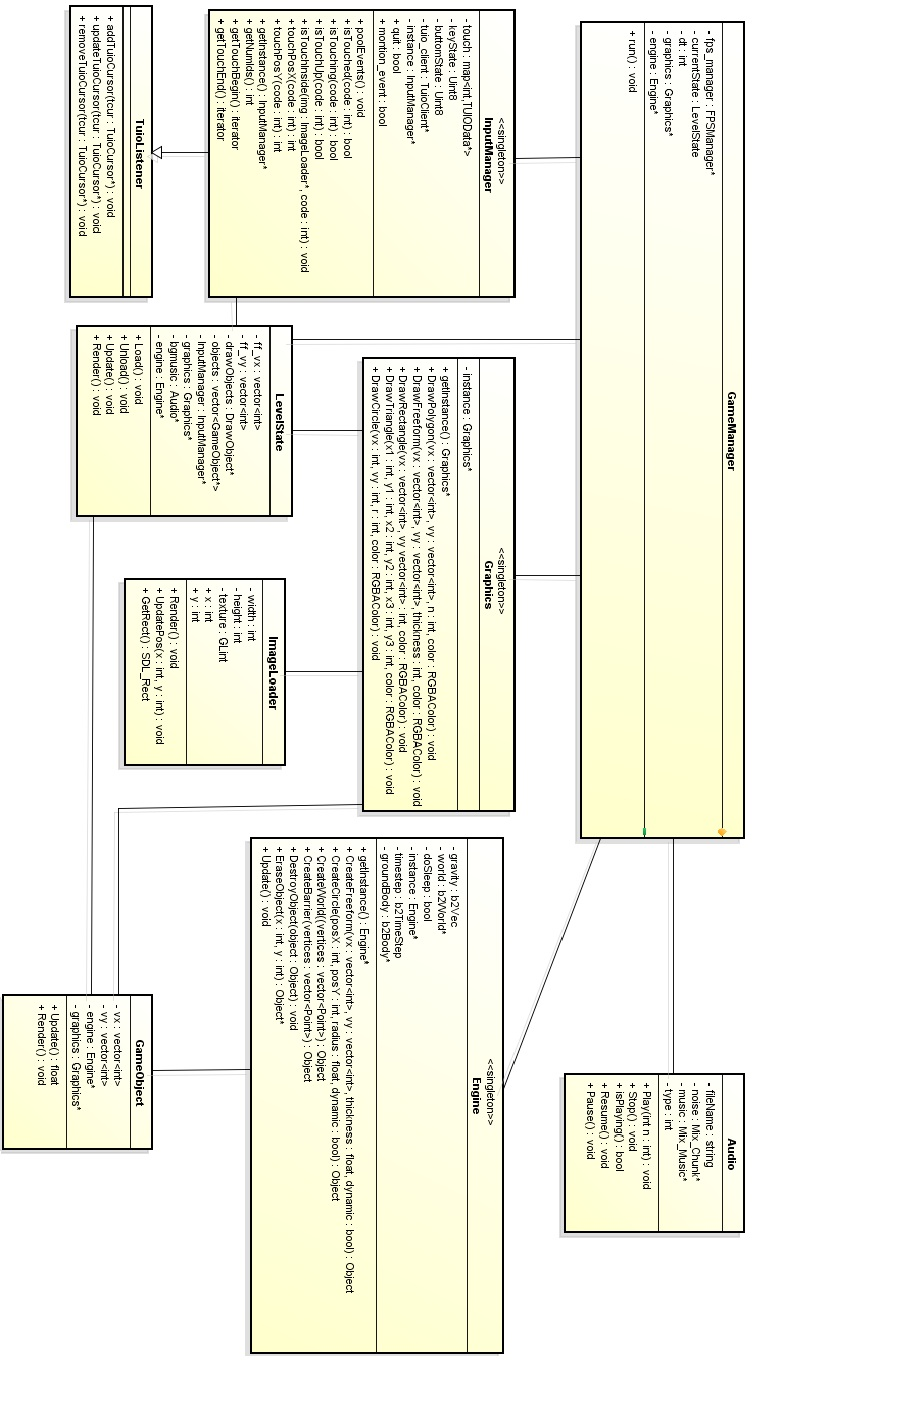
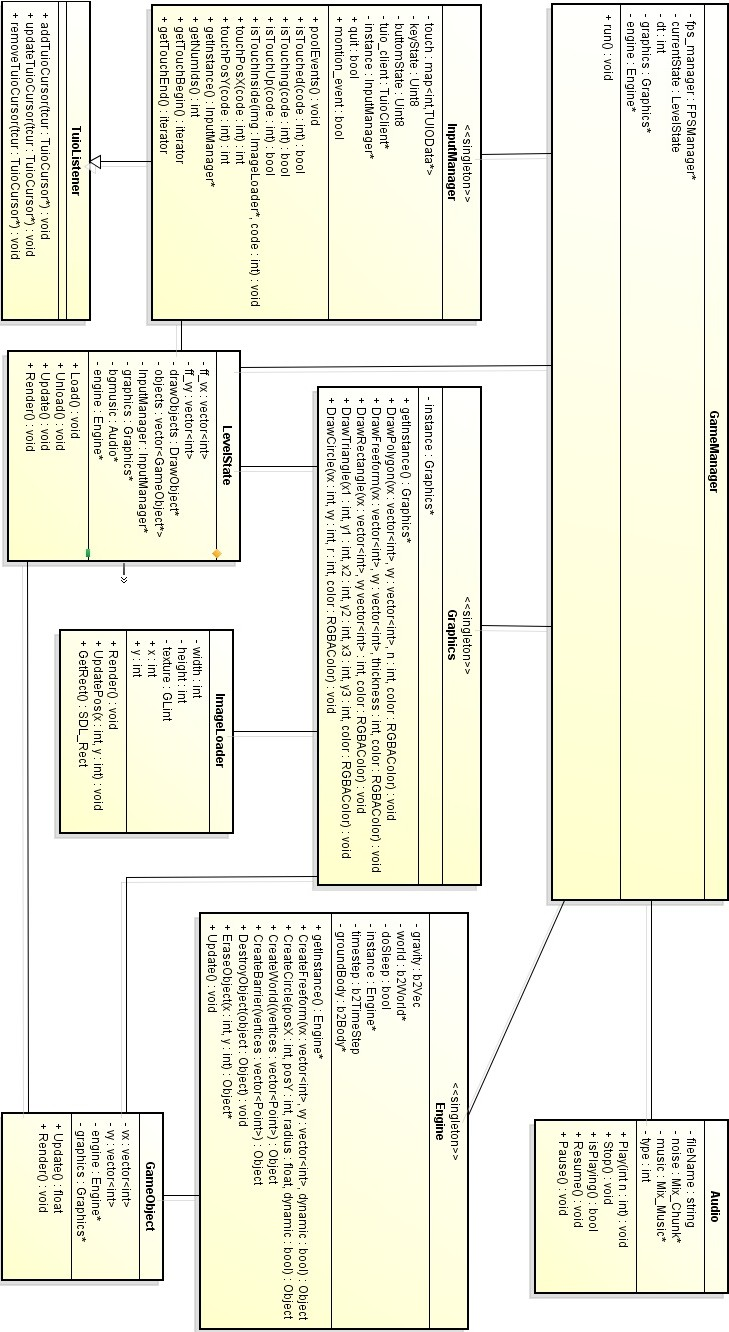
Aumentada no diagrama.

diff --git a/monografia/chapters/capitulo5.tex b/monografia/chapters/capitulo5.tex
@@ -162,7 +162,7 @@ Como observado no diagrama da Figura~\ref{diag-deskworld}, existe uma classe \te
 
 \begin{figure}[h!]
 	\begin{center}
-	\includegraphics[scale=0.62]{diagdeclasses.jpg}
+	\includegraphics[scale=0.666]{diagdeclasses.jpg}
 	\caption{Diagrama de classes do \textit{Deskworld}}
 	\label{diag-deskworld}
 	\end{center}
